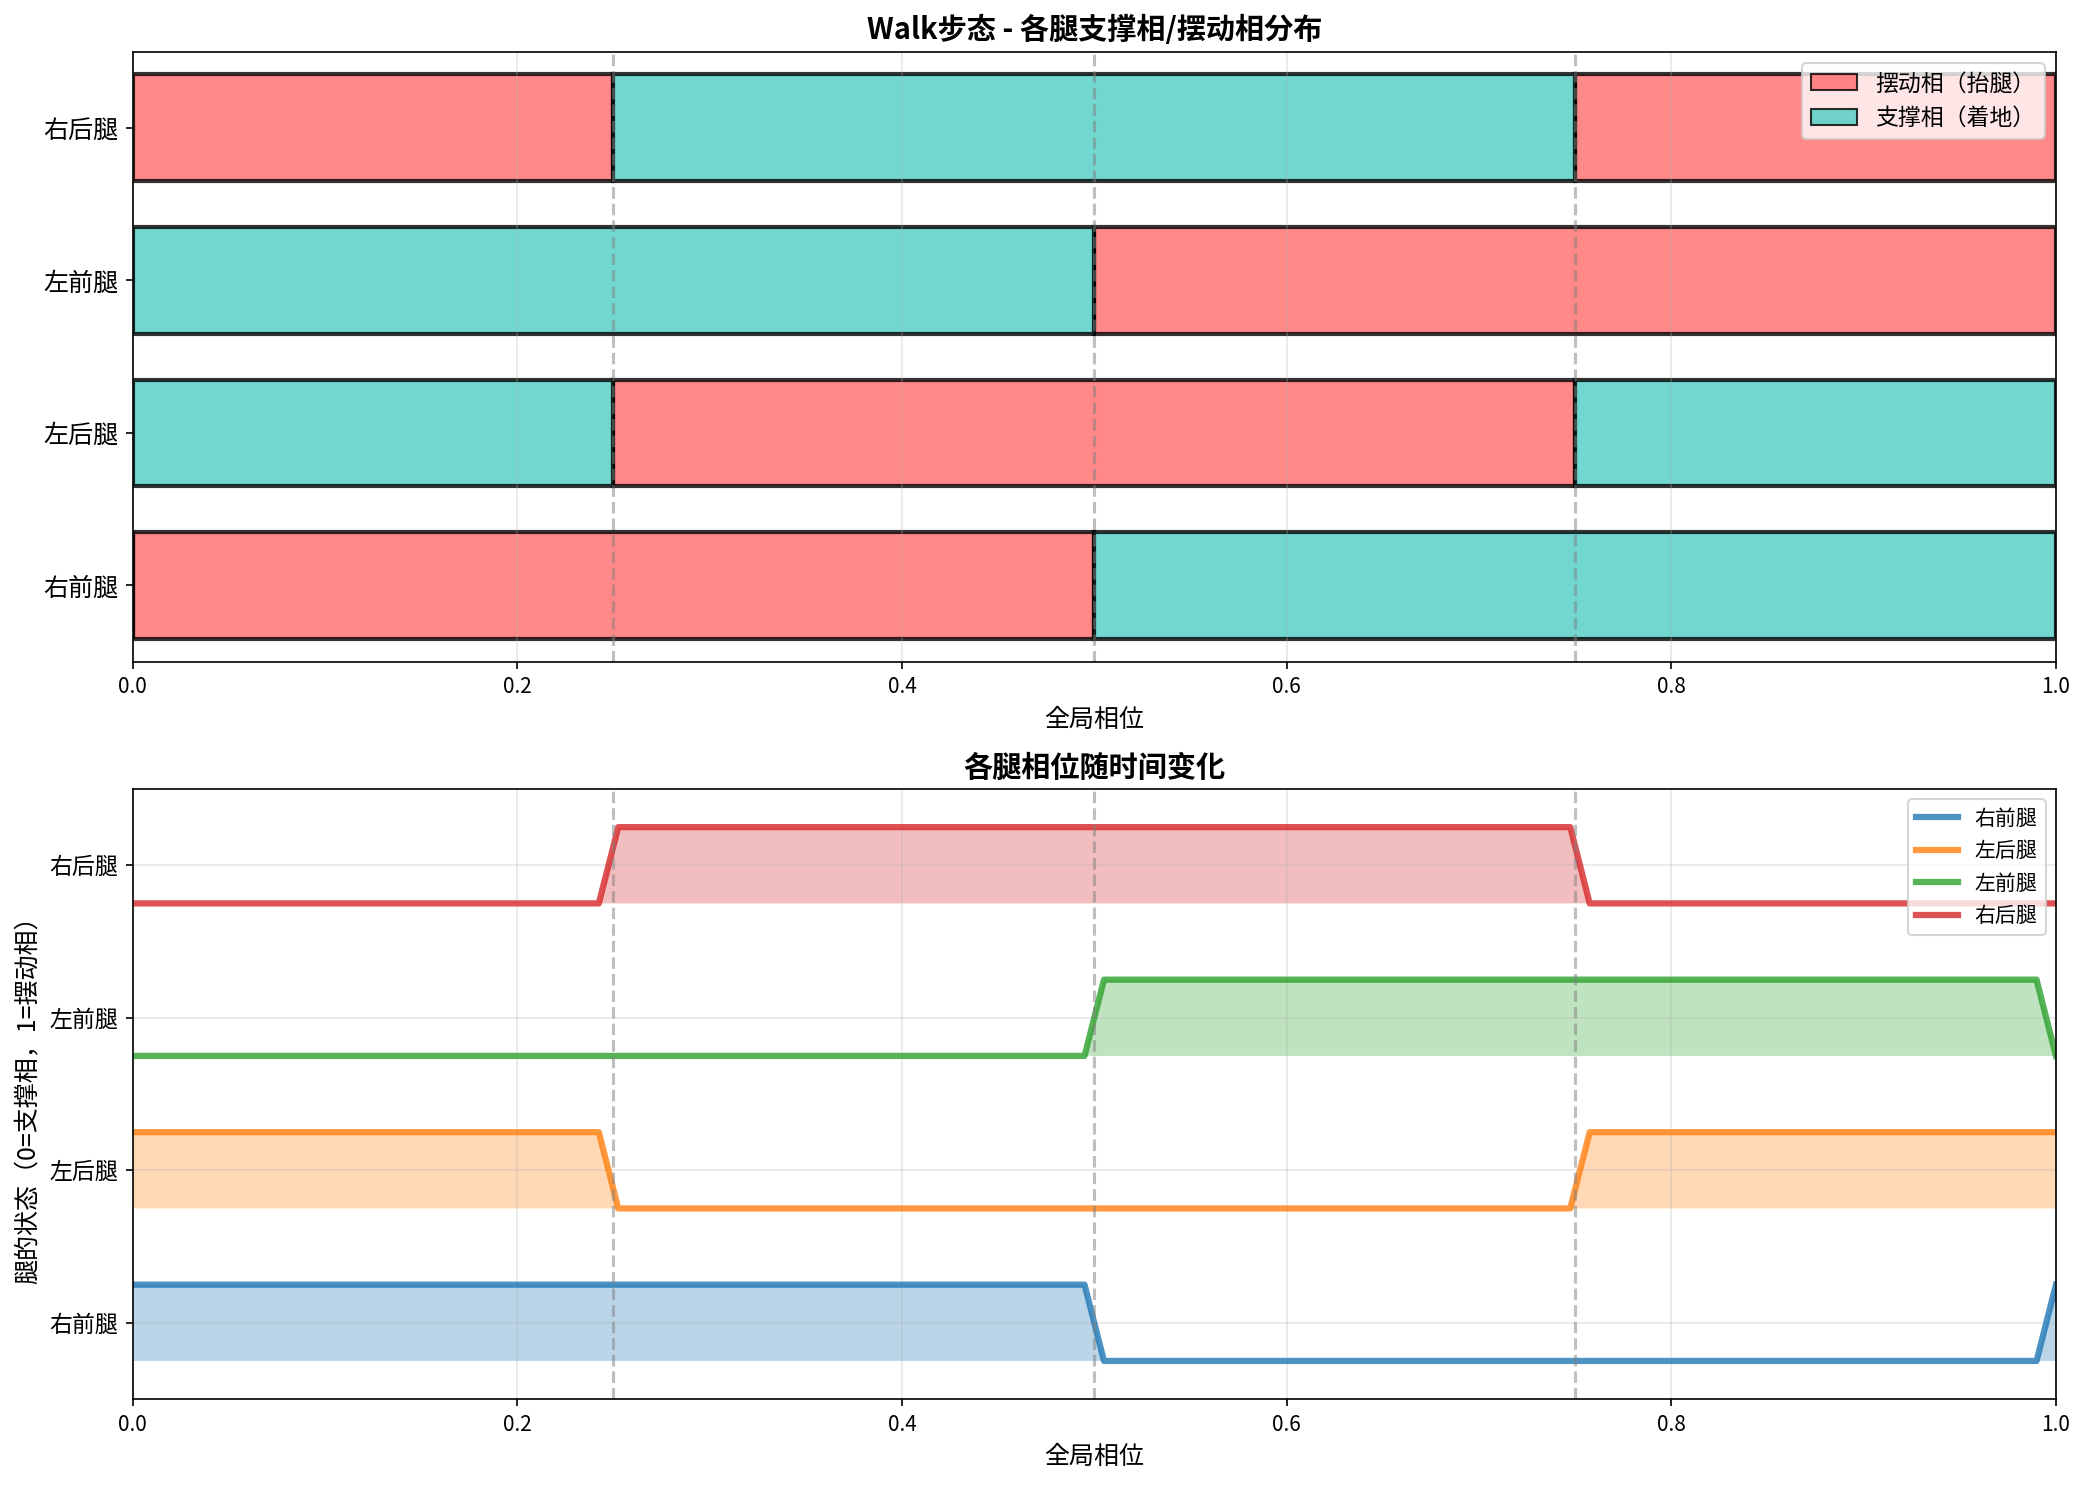
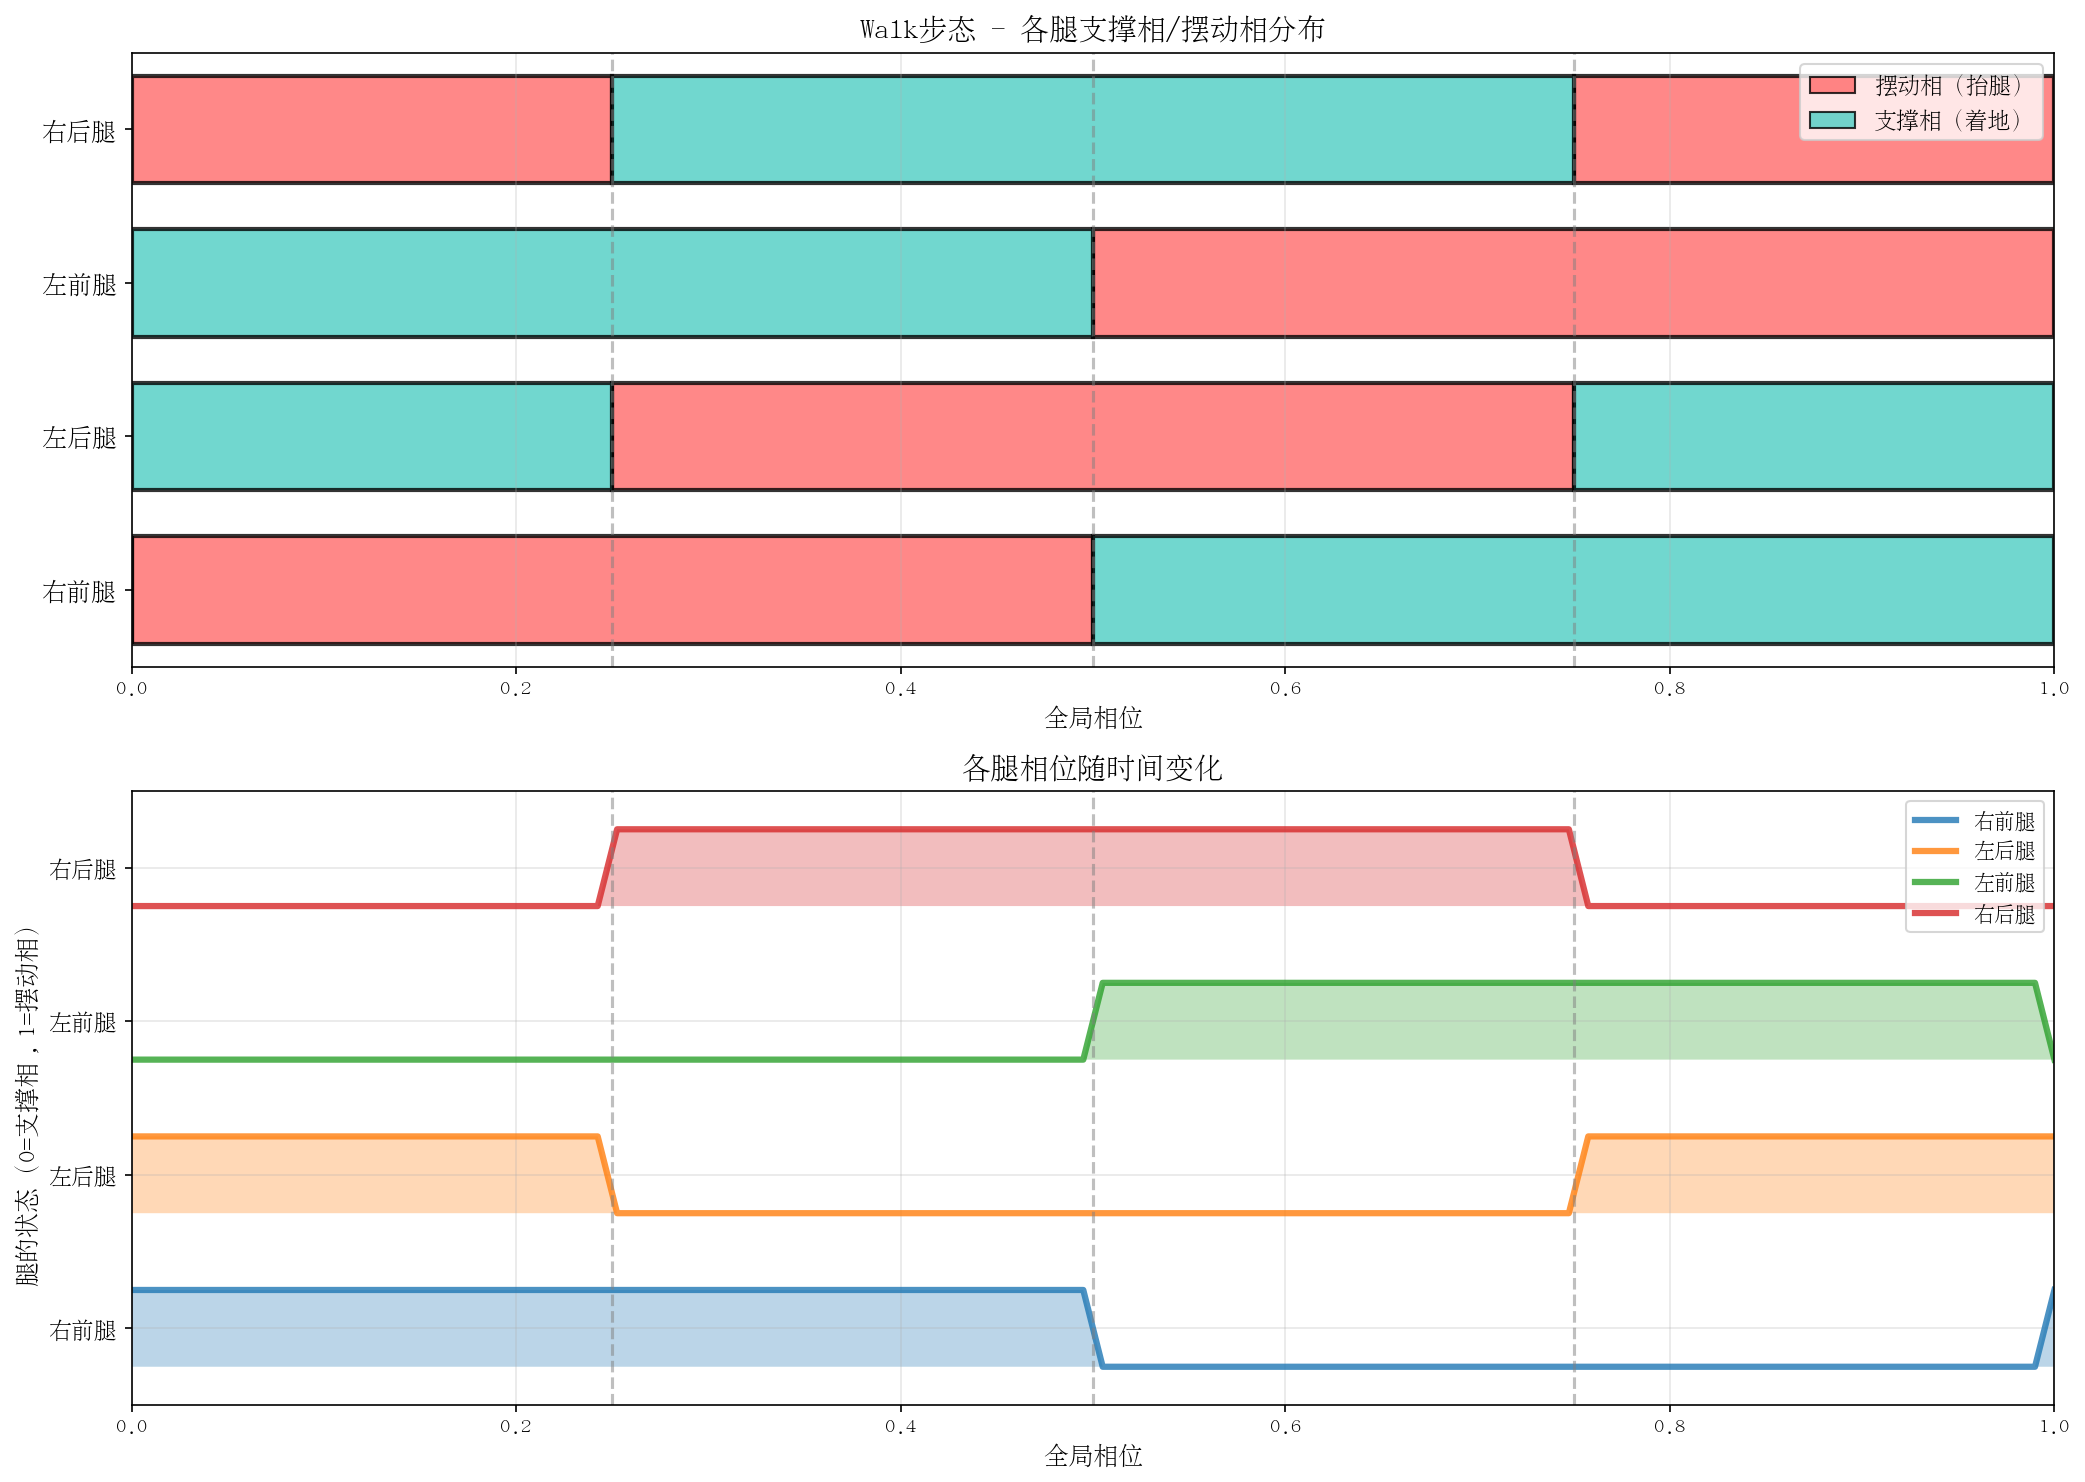
修复plot_leg_phases.py字体兼容性问题
- 添加字体候选列表
- 兼容低版本matplotlib（使用hasattr检查addfont方法）
- 测试通过 ✅

diff --git a/spot_micro_body_control_sim/04_spot_micro_gait_control/visualization/plot_leg_phases.py b/spot_micro_body_control_sim/04_spot_micro_gait_control/visualization/plot_leg_phases.py
@@ -15,13 +15,37 @@ sys.path.insert(0, module_root)
 
 from gait.walk_gait import WalkGait
 
-# 配置中文字体
-font_path = '/usr/share/fonts/opentype/noto/NotoSansCJK-Regular.ttc'
-if os.path.exists(font_path):
-    fm.fontManager.addfont(font_path)
-    font_prop = fm.FontProperties(fname=font_path)
-    plt.rcParams['font.family'] = font_prop.get_name()
-    plt.rcParams['axes.unicode_minus'] = False
+# 配置中文字体（兼容低版本matplotlib）
+# 优先使用项目目录下的字体，然后检查其他候选字体
+font_candidates = [
+    os.path.join(os.path.dirname(os.path.dirname(os.path.abspath(__file__))), 'fonts', 'BabelStoneHan.ttf'),
+    os.path.expanduser('~/BabelStoneHan.ttf'),
+    '/usr/share/fonts/opentype/noto/NotoSansCJK-Regular.ttc',
+    '/usr/share/fonts/truetype/droid/DroidSansFallbackFull.ttf',
+    '/usr/share/fonts/truetype/wqy/wqy-zenhei.ttc',
+    '/usr/share/fonts/truetype/wqy/wqy-microhei.ttc',
+]
+
+chinese_font = None
+for font_path in font_candidates:
+    if os.path.exists(font_path):
+        try:
+            # 尝试使用addfont方法（matplotlib 3.2+）
+            if hasattr(fm.fontManager, 'addfont'):
+                fm.fontManager.addfont(font_path)
+            chinese_font = fm.FontProperties(fname=font_path)
+            
+            # 设置全局字体（兼容不同版本）
+            font_name = chinese_font.get_name()
+            plt.rcParams['font.family'] = font_name
+            plt.rcParams['font.sans-serif'] = [font_name, 'DejaVu Sans']
+            plt.rcParams['axes.unicode_minus'] = False
+            break
+        except:
+            continue
+
+if chinese_font is None:
+    chinese_font = fm.FontProperties()
 
 def plot_leg_phases():
     """绘制每条腿的支撑相/摆动相相位图"""
